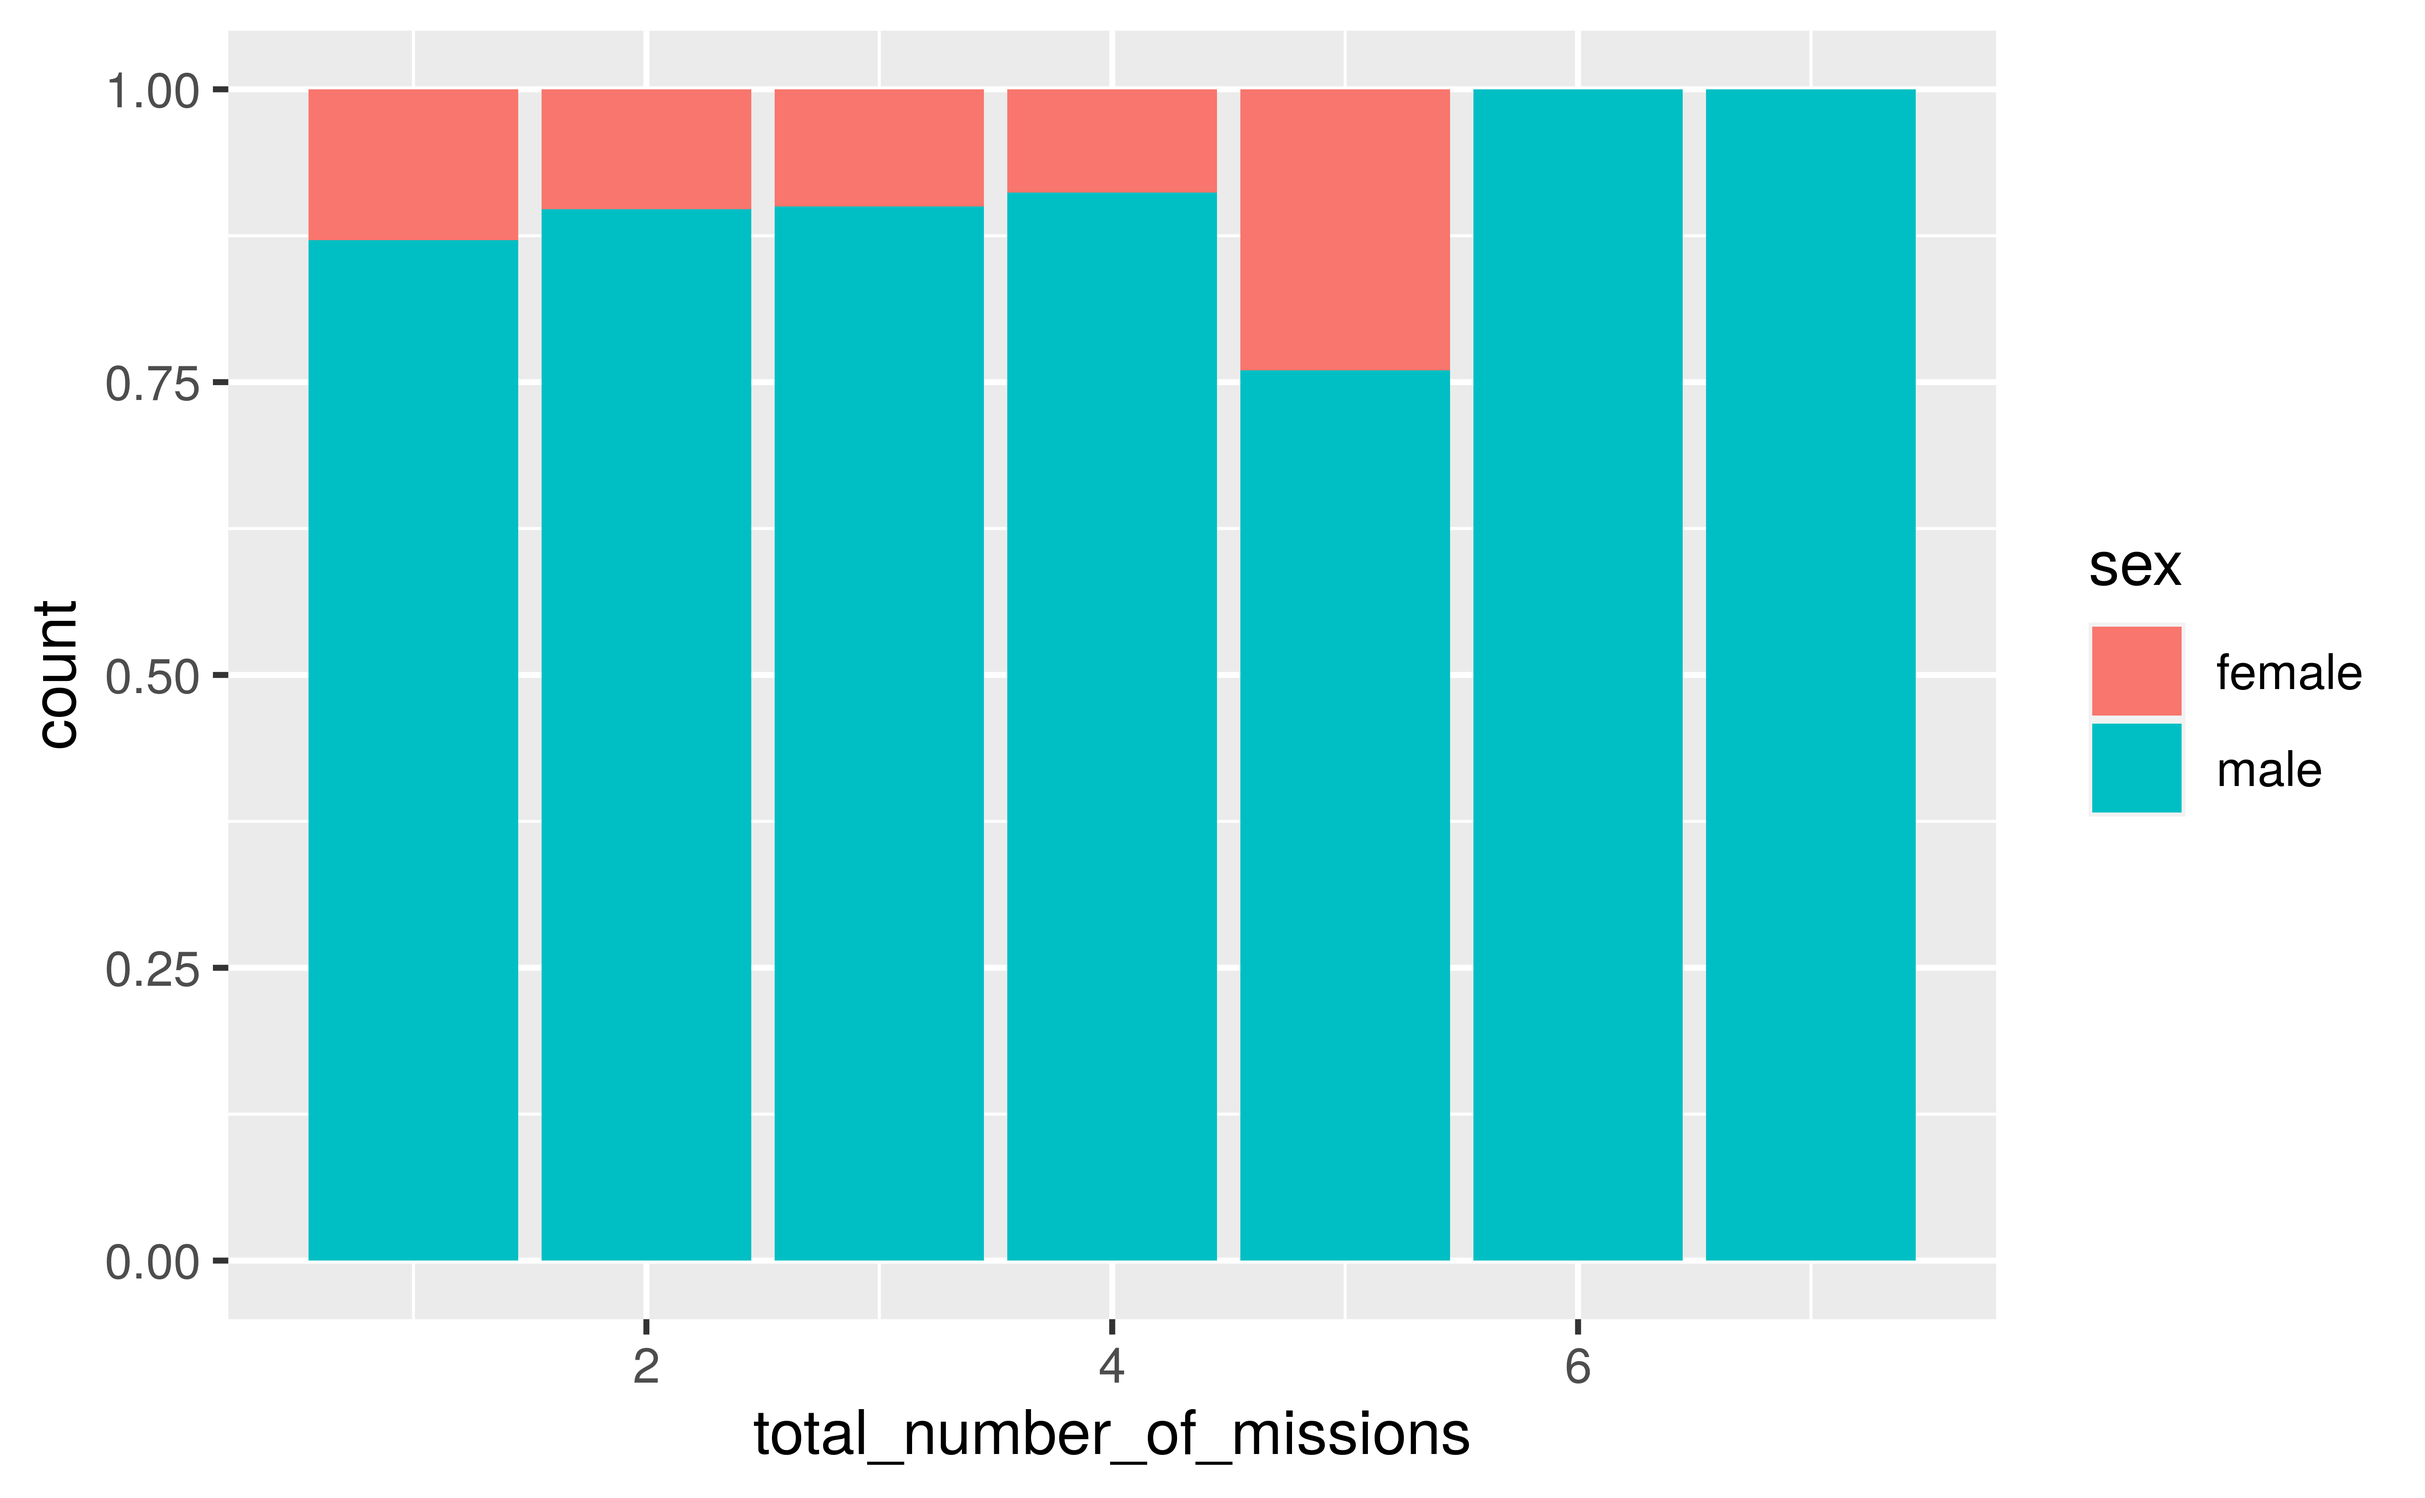
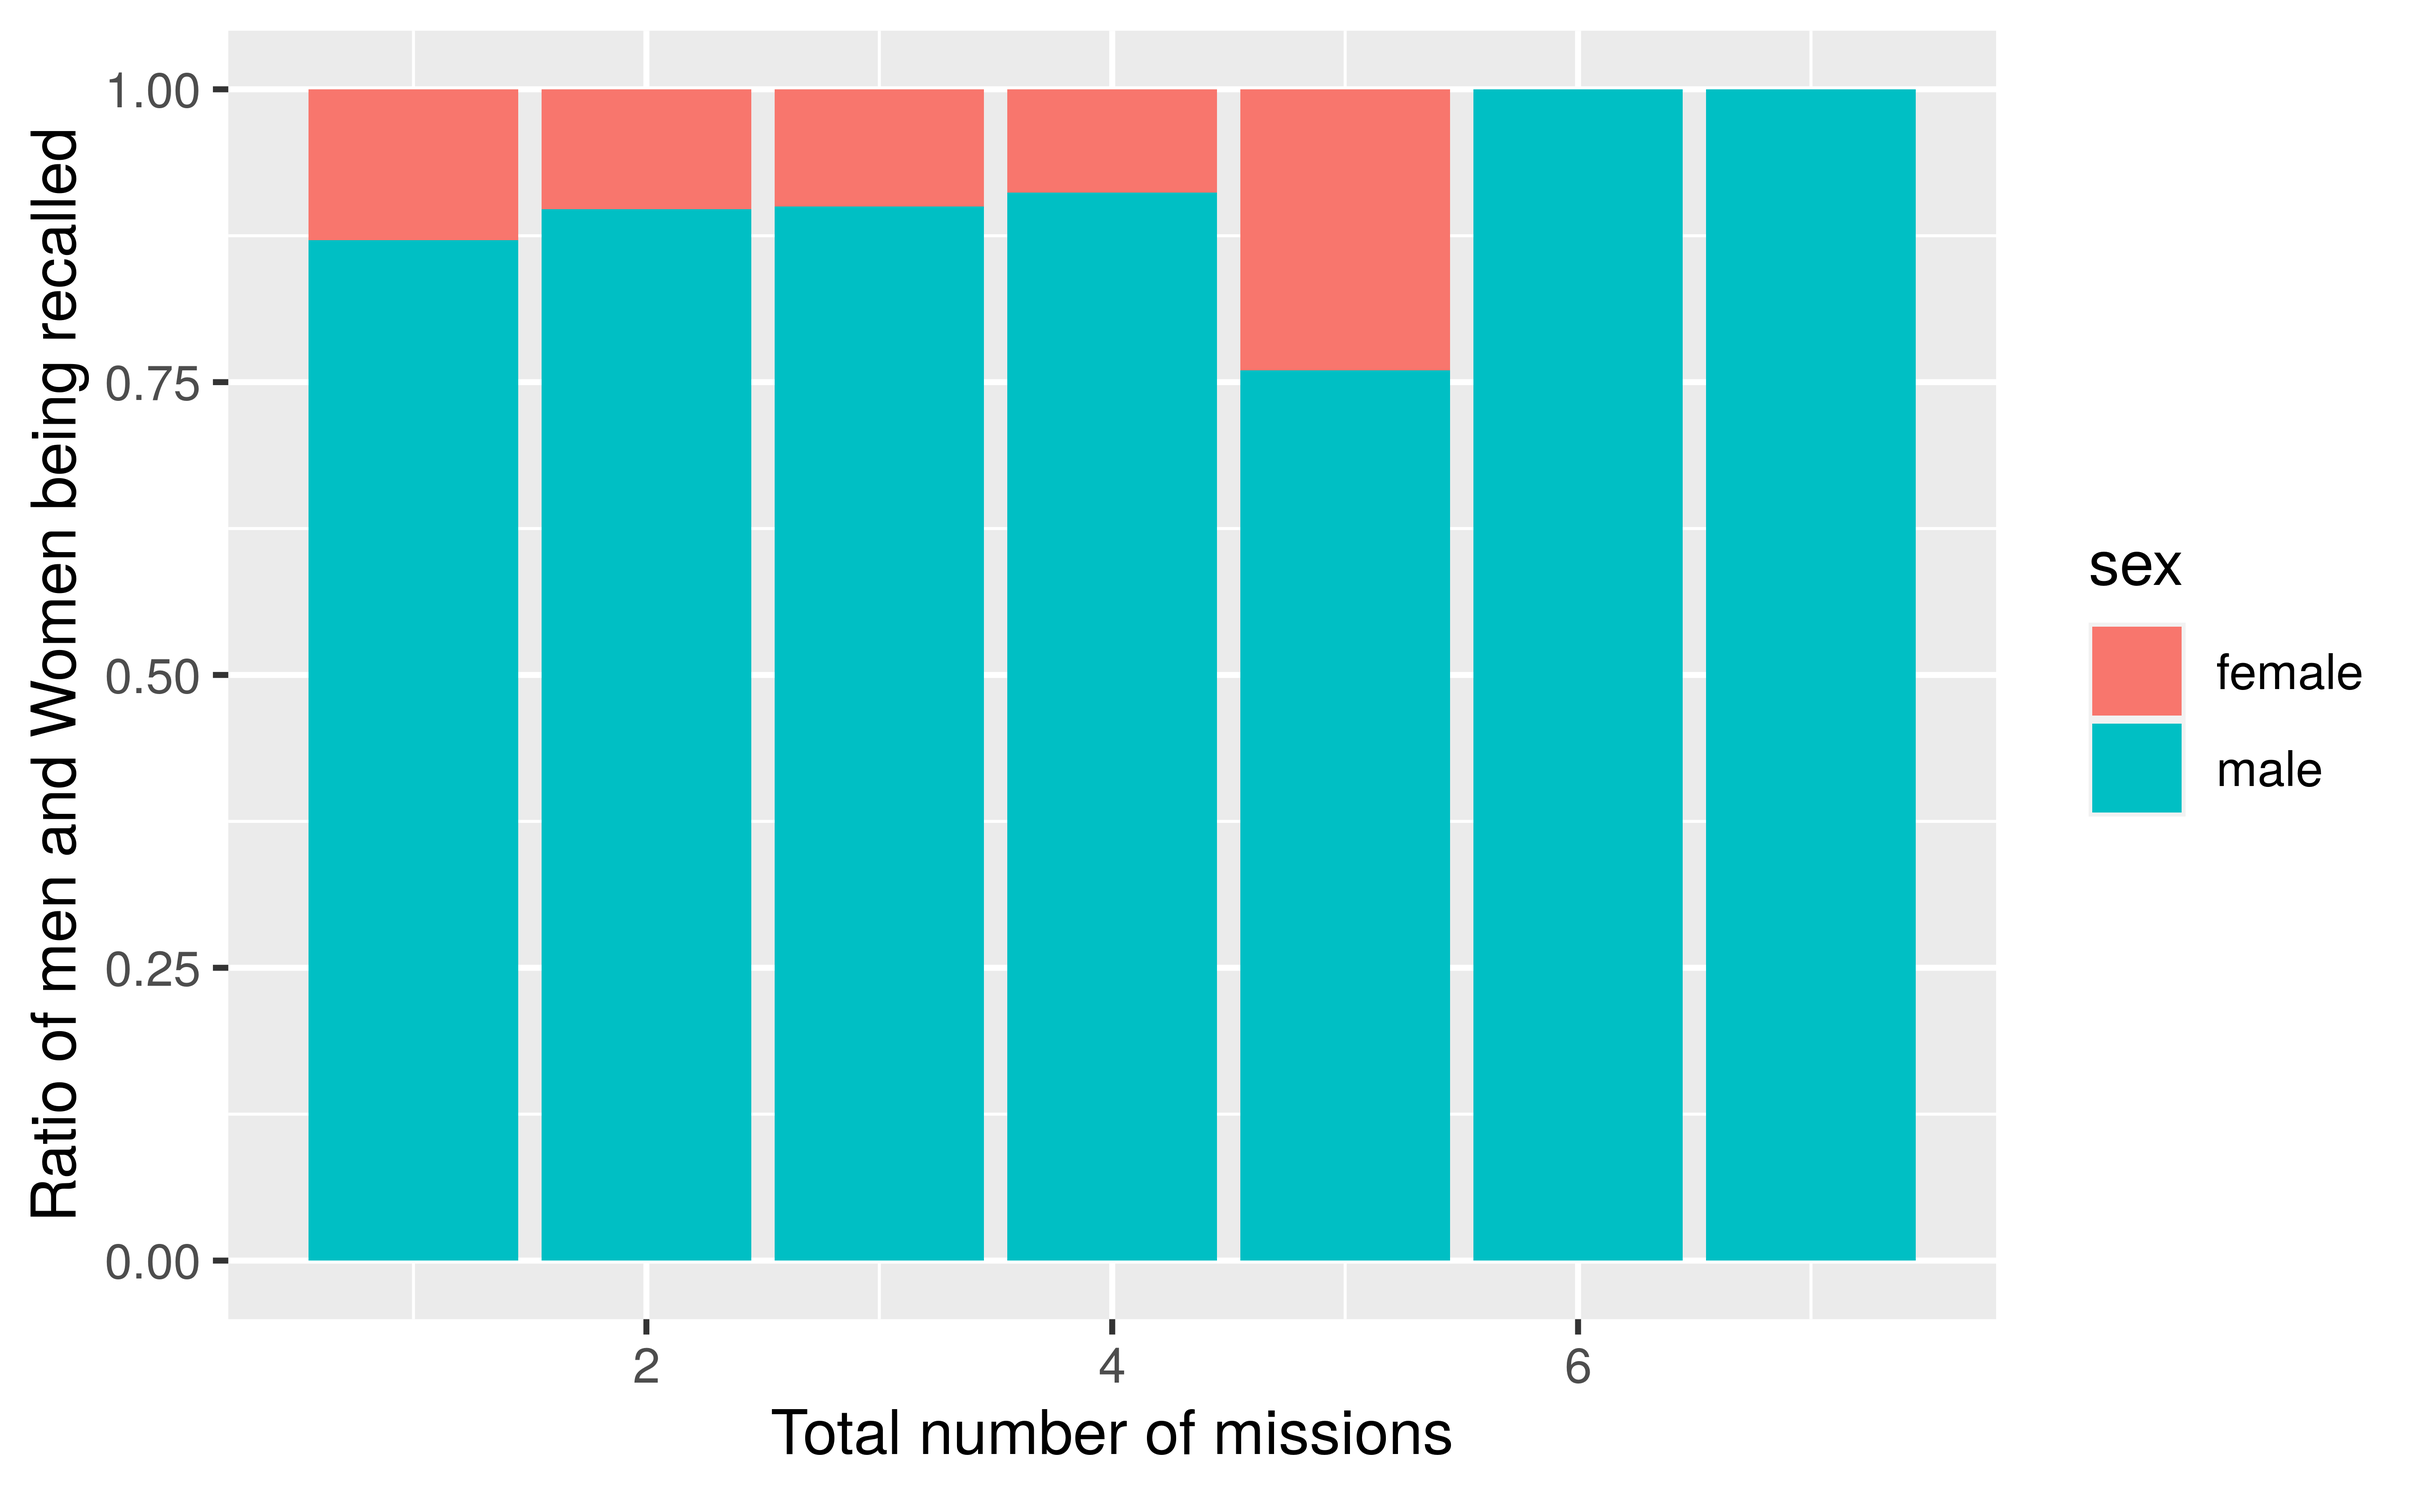
Chanages to mission stats

Changed region(s): [[0.0, 0.0935, 0.0311, 0.8103], [0.3111, 0.935, 0.4667, 0.9973], [0.4978, 0.935, 0.6222, 0.9661]]

diff --git a/presentation/presentation.html b/presentation/presentation.html
@@ -206,32 +206,16 @@ class: inverse, center, middle
 ---
 #Mission Hours
 
-.pull-left[
-&lt;img src="presentation_files/figure-html/unnamed-chunk-7-1.png" width="80%" /&gt;&lt;img src="presentation_files/figure-html/unnamed-chunk-7-2.png" width="80%" /&gt;
-]
 
-.pull-right[
-- As shown by the graphs once a women is selected they aren't prejudiced in how long there mission are shown by the similarties in shape.
+&lt;img src="presentation_files/figure-html/unnamed-chunk-7-1.png" width="80%" /&gt;
 
-- This implies women are treated the same once employed and are are no more or less likely to get longer or shorter missions than men.
 
-- However for missions over 7500 hours women are not selected, however missions of this length make up only 10 of 1227 missions so appears to be statistically insignificant.
-]
+
+
 ---
 #Recall for more missions
-.pull-left[
+
 &lt;img src="presentation_files/figure-html/unnamed-chunk-8-1.png" width="80%" /&gt;
-]
-
-.pull-right[
-- While women are less likely to be selected for mission they are just as likely to be selected again for multiple mission once they have completed one.
-
-- Also the probability of them being selected again as compared to men over more than 2 missions stays showing that they continue to do just as good job throughout all the missions they complete with no tail off.
-]
-
-.pull-center[
-In conclusion  women are given the same mission hours and have the same likelihood to be recalled as men. This shows that while they are less likely to be selected in the first place they are treated the same once employed.
-]
 
 ---
 
